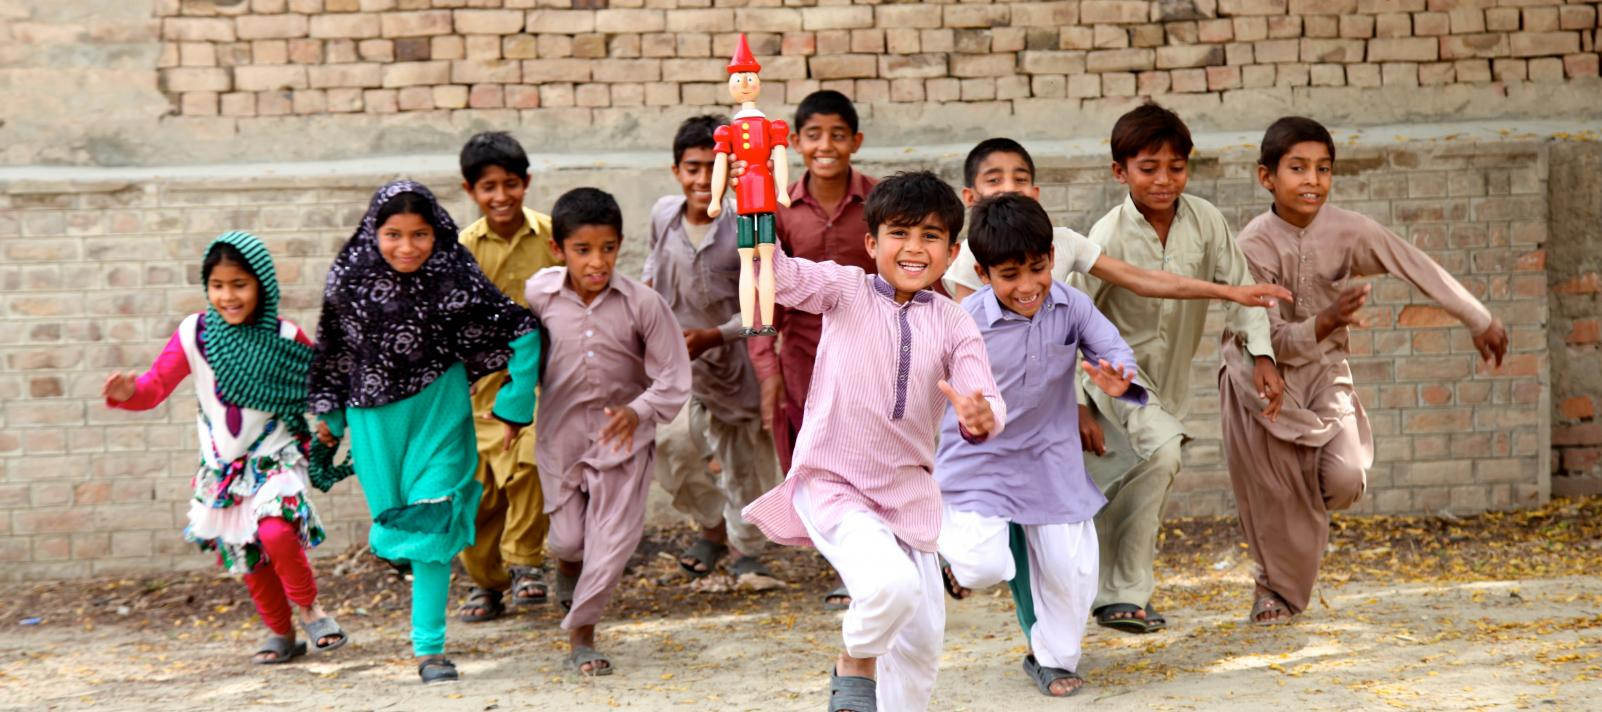
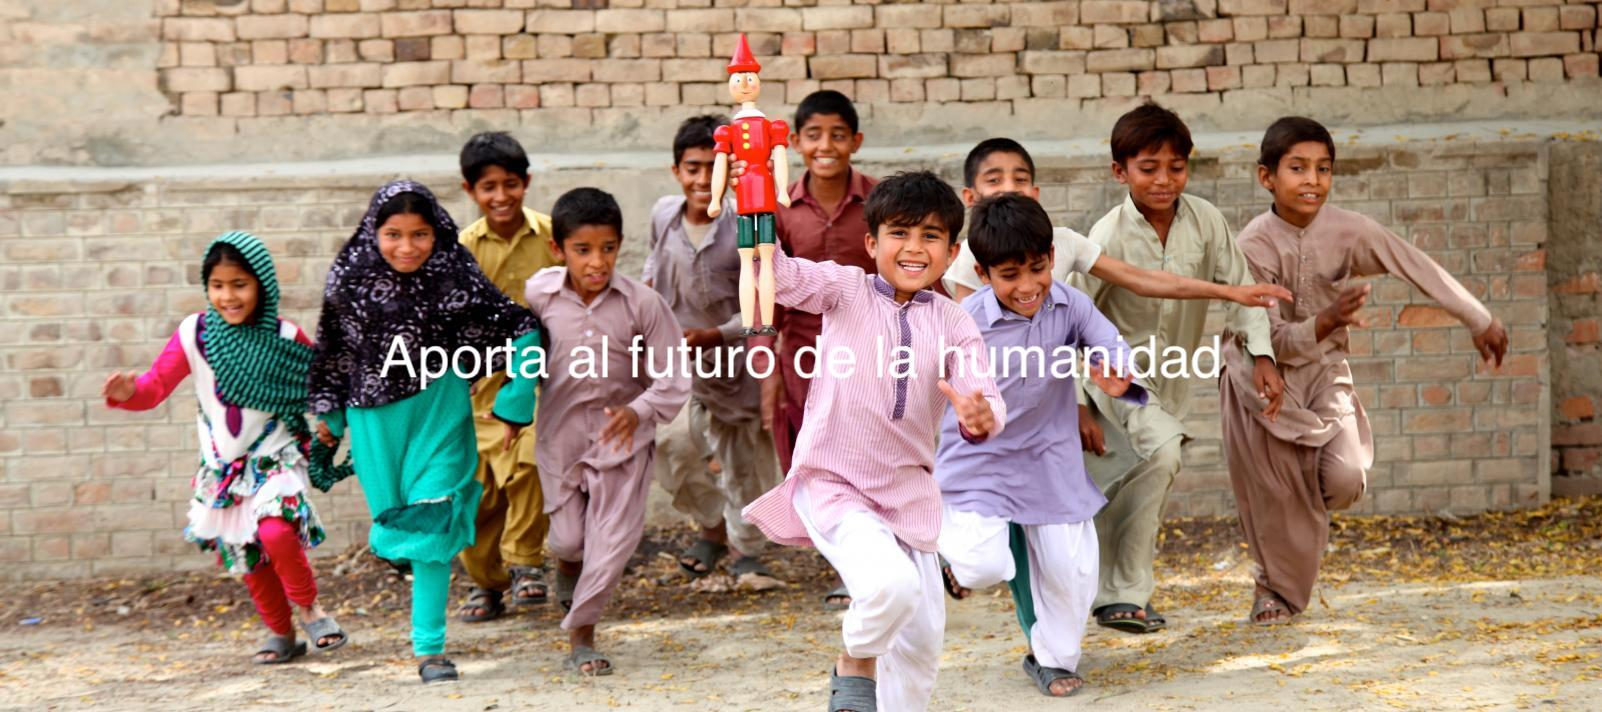
0 issues en toda la página

Changed region(s): [[0.2185, 0.4635, 0.7803, 0.5562]]

diff --git a/front/src/components/app.js b/front/src/components/app.js
@@ -34,20 +34,19 @@ export default class App extends React.Component {
     <li data-target="#demo1" data-slide-to="1" className=""></li>
     <li data-target="#demo1" data-slide-to="2" className=""></li>
   </ul>
-  <div className="carousel-inner">
+  <div id="negro" className="carousel-inner">
     <div className="carousel-item active">
 
-      <img className="demo0 img-fluid" src="/images/imagen1.png" alt="Foto en primer plano de mujer negra" />
+      <img className="demo0 img-fluid" src="/images/imagen1.jpg" alt="Foto en primer plano de mujer negra" />
       
-      <div className="centered carousel-caption d-none d-md-block">¡Has del mundo un mejor lugar!</div>  
+        
     </div>
     <div class="carousel-item">
       <img className="demo0 img-fluid" src="/images/imagen3.jpg" alt="Niño negro estudiando"  />
-      <div className="centered2 carousel-caption d-none d-md-block"><h1>Empodera a las nuevas generaciones</h1></div>    
+      <div id="negrooo" className="centered2 carousel-caption d-none d-md-block"><h1 className="text-dark">.</h1></div>    
     </div>
     <div className="carousel-item">
-      <img className="demo0 img-fluid" src="/images/imagen2.jpg" alt="Niños musulmanes corriendo"  />
-      <div className="centered3 carousel-caption d-none d-md-block">Aporta al futuro de la humanidad</div>       
+      <img className="demo0 img-fluid" src="/images/imagen2.jpg" alt="Niños musulmanes corriendo"  />     
     </div>
   </div>
   <a className="carousel-control-prev" href="#demo1" data-slide="prev">
@@ -101,7 +100,7 @@ export default class App extends React.Component {
     return (
       <div className="container text-center">
         <hr/>
-        <h1>¡Actualmente estas son tus solicitudes!</h1>
+        <h1>¡Estas son las solicitudes más cotizadas!</h1>
         <hr/>
         <MisSolicitudes/>
         <br/>

diff --git a/front/public/index.html b/front/public/index.html
@@ -22,7 +22,7 @@
             <div class="col-md-4 col-xl-5">
               <div class="pr-xl-4">
                 <p class = "text-white">Somos una sociedad sin ánimo de lucro que pretende facilitar el proceso de donación .</p>
-                <p class="rights"><span>©  </span><span class="copyright-year">2018</span><span> </span><span>Waves</span><span>. </span><span>All Rights Reserved.</span></p>
+                
               </div>
             </div>
             <div class="col-md-4">
@@ -34,11 +34,7 @@
                 <dt>email:</dt>
                 <dd><Link class = "text-white" to="/">dkstudioin@gmail.com</Link></dd>
               </dl>
-              <dl class="contact-list">
-                <dt>phones:</dt>
-                <dd><Link class = "text-white" to="/">+91 7568543012</Link> <span>or</span> <Link class = "text-white" to="/">+91 9571195353</Link>
-                </dd>
-              </dl>
+              
             </div>
             <div class="col-md-4 col-xl-3">
               
@@ -47,7 +43,7 @@
                 <li><Link class= "text-white" to="/">Instagram</Link></li>
                 <li><Link class = "text-white" to="/">Twitter</Link></li>
                 <li><Link class = "text-white" to="/">Google plus</Link></li>
-                <li><Link class = "text-white" to="/">Reddit</Link></li>
+               
               </ul>
             </div>
           </div>
@@ -270,9 +266,23 @@ ul, ol {
 .blanquito{
   outline: none;
 }
-select option:hover {
-    background-color: yellow;
+#negro{
+  background-color: transparent;
 }
+.negro{
+  background-color: transparent; 
+}
+#negrooo{
+  color:black;
+}
+select option {
+    margin: 40px;
+    background: rgba(0, 0, 0, 0.3);
+    color: #fff;
+    text-shadow: 0 1px 0 rgba(0, 0, 0, 0.4);
+}
+
+
 
 </style>
 </html>

diff --git a/front/src/components/form_donacion.js b/front/src/components/form_donacion.js
@@ -47,14 +47,8 @@ export default class FormProduct extends React.Component {
 	                      <input  id="product_name" type="text" className="form-control" aria-label="nombre" placeholder="Nombre del producto"/>
 	                    </div>
 	                    <div className="col-lg-4 col-md-4 col-sm-2 form-group blanquito">
-	                      <select id="quality" className="dropdown-menu blanquito" aria-label="calidad" className="custom-select form-control">
-	                        <option defaultValue className = "form-control">Calidad</option>
-	                        <option >1</option>
-	                        <option>2</option>
-	                        <option>3</option>
-	                        <option>4</option>
-	                        <option>5</option>
-	                      </select>
+	                      
+	                      <input id ="quality"  aria-label="calidad" className=" form-control" type="number" name="quantity" min="1" max="5" placeholder="Calidad"></input>
 	                    </div>
 	                    <div className="col-12 form-group">
 

diff --git a/front/src/components/solicitud_list.js b/front/src/components/solicitud_list.js
@@ -19,9 +19,7 @@ export default class SolicitudList extends React.Component {
               var count = 0;
               var solicitudes=[];
               for(var soli of myJson){
-                  if (count>5){
-                      break;
-                  }count++;
+                  
                   solicitudes.push(soli)
               }
                  this.setState({solicitud_list:solicitudes});
@@ -44,7 +42,7 @@ export default class SolicitudList extends React.Component {
  <h2 >Solicitudes en proceso</h2>
   <div className="carousel-inner">
   <div className="carousel-item active ">
-      <img className="d-block w-100" src= "https://www.internews.org/sites/default/files/styles/article_header/public/2017-12/passing%20supplies%20on%20boat.jpg?itok=wQIaeNzw"alt="0"/>
+      <img className="d-block w-100" src= "https://www.internews.org/sites/default/files/styles/article_header/public/2017-12/passing%20supplies%20on%20boat.jpg?itok=wQIaeNzw"alt="imagen"/>
     </div>
     {this.renderSolicitudes()}
     </div>

diff --git a/front/src/components/miSolicitud.js b/front/src/components/miSolicitud.js
@@ -38,10 +38,10 @@ var userId1 = event.target.id;
     <div  className="collapse collapseTwo"  data-parent="#accordionExample">
       <div className="card-body">
        <p>{this.props.solicitud.about}</p>
-       <p>Fondos: {this.props.solicitud.fondos}</p>
-       <p>Cantidad Faltante: {this.props.solicitud.cantidadFaltante}</p>
-       <p>Url de la Imagen: {this.props.solicitud.picture}</p>
-       <p>Registrado: {this.props.solicitud.registered}</p>
+       <p><strong>Fondos:</strong> {this.props.solicitud.fondos}</p>
+       <p><strong>Cantidad Faltante:</strong> {this.props.solicitud.cantidadFaltante}</p>
+       <p><strong>Url de la Imagen:</strong> {this.props.solicitud.picture}</p>
+       <p><strong>Registrado: </strong>{this.props.solicitud.registered}</p>
 
        
        <button id={this.props.solicitud.id} type="button" onClick = {this.handleClick}  className="btn btn-dark">Borrar</button>

diff --git a/front/src/components/misSolicitudes.js b/front/src/components/misSolicitudes.js
@@ -24,11 +24,15 @@ export default class MisSolicitudes extends React.Component {
               console.log(myJson);
               var count = 0;
               var solicitudes=[];
+              var tam = myJson.length;
               for(var soli of myJson){
-                  if (count>3){
-                      break;
-                  }count++;
-                  solicitudes.push(soli)
+                  if(count> tam/2){
+                 if(soli.picture.length>200)
+                 {
+                  soli.picture = "Url demasiado larga."
+                 }
+                  solicitudes.push(soli)}
+                  count++;
               }
                  this.setState({solicitud_list:solicitudes});
                 

diff --git a/front/src/components/sol.js b/front/src/components/sol.js
@@ -151,8 +151,7 @@ console.log("omeee"+y);
     </div>
  
     <div className="bd-example ">
-<button id = {this.props.solicitud.id} type="button" onClick={this.handleSubmit2} className="btn btn-outline-dark lalo">$100</button>
- <button id = {this.props.solicitud.id} type="button" onClick={this.handleSubmit1} className="btn btn-outline-dark lalo">$500</button>
+
  <button id = {this.props.solicitud.id} type="button" onClick={this.handleSubmit} className="btn btn-outline-dark lalo">$1000</button>
 
 

diff --git a/front/src/index.js b/front/src/index.js
@@ -1,9 +1,11 @@
 import React from "react";
 import ReactDOM from "react-dom";
 import App from "./components/app";
+import {IntlProvider} from 'react-intl';
 
 
-ReactDOM.render(<App/>, document.getElementById("root"));
-// ReactDOM.render(<ProductList/>, document.getElementById("product_list"));
-// ReactDOM.render(<SolicitudList/>, document.getElementById("solicitudes"));
-
+ReactDOM.render(
+	<IntlProvider locale="en">
+	<App/>
+	</IntlProvider>, document.getElementById("root")
+	);

diff --git a/front/src/components/solicitud.js b/front/src/components/solicitud.js
@@ -7,7 +7,7 @@ export default class Solicitud extends React.Component {
         return (
             
            <div className="carousel-item ">
-      <img className="d-block w-100" src={this.props.solicitud.picture} alt={this.props.solicitud.id}/>
+      <img className="d-block w-100" src={this.props.solicitud.picture} alt={this.props.solicitud.about}/>
     </div>
     
     

diff --git a/front/src/components/MyForm.js b/front/src/components/MyForm.js
@@ -111,7 +111,7 @@ render() {
                 onChange={this.handledescripcionChange} id="message-text"></textarea>
           </div>
 
-        <button type='submit' className="btn btn-d">Send message</button>
+        <button type='submit' className="btn btn-dark">Crear</button>
         </form>
         </div>
 
